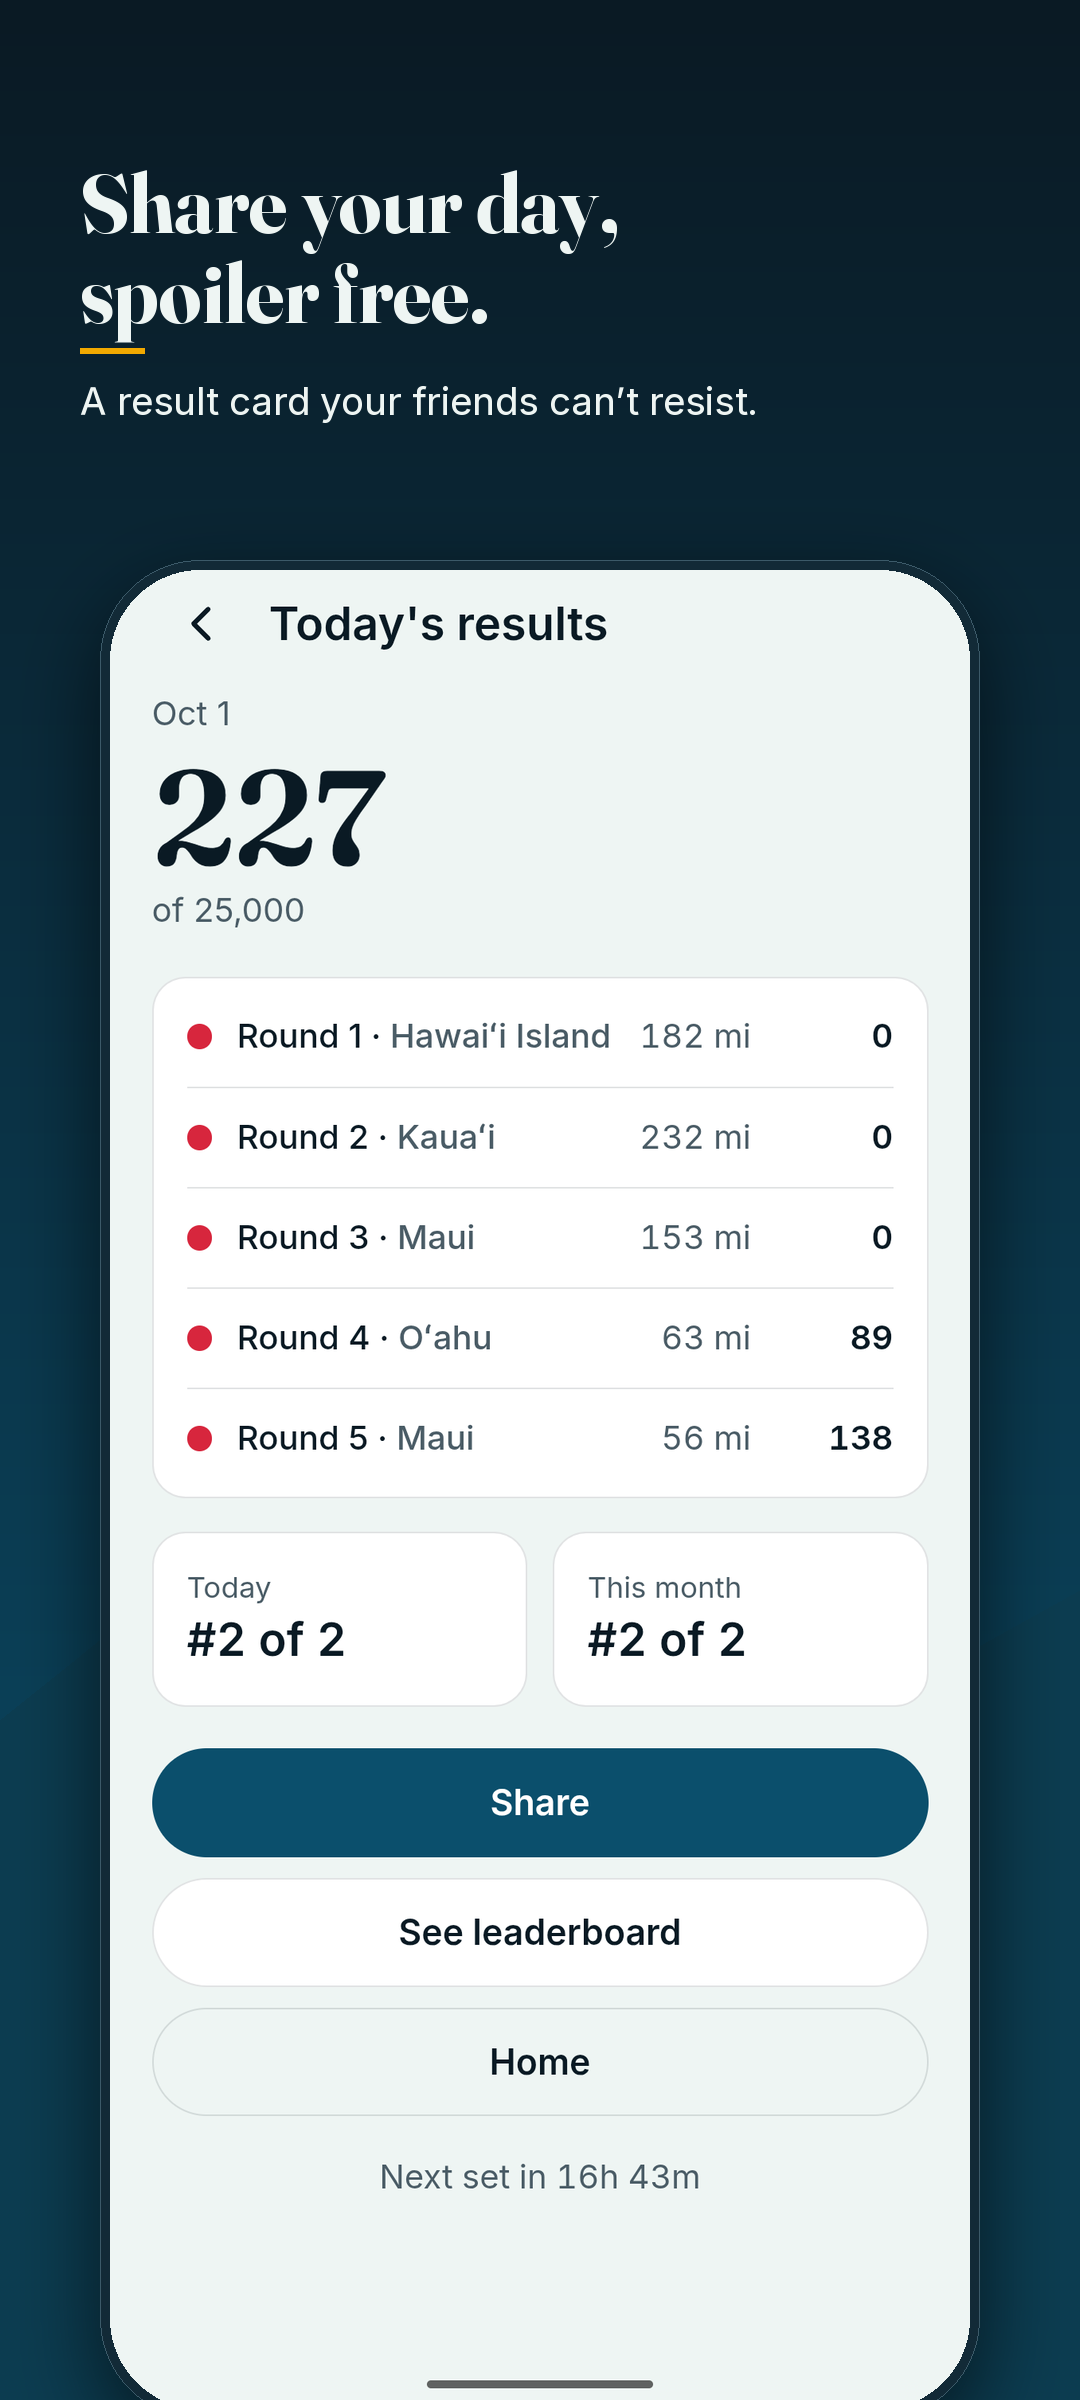
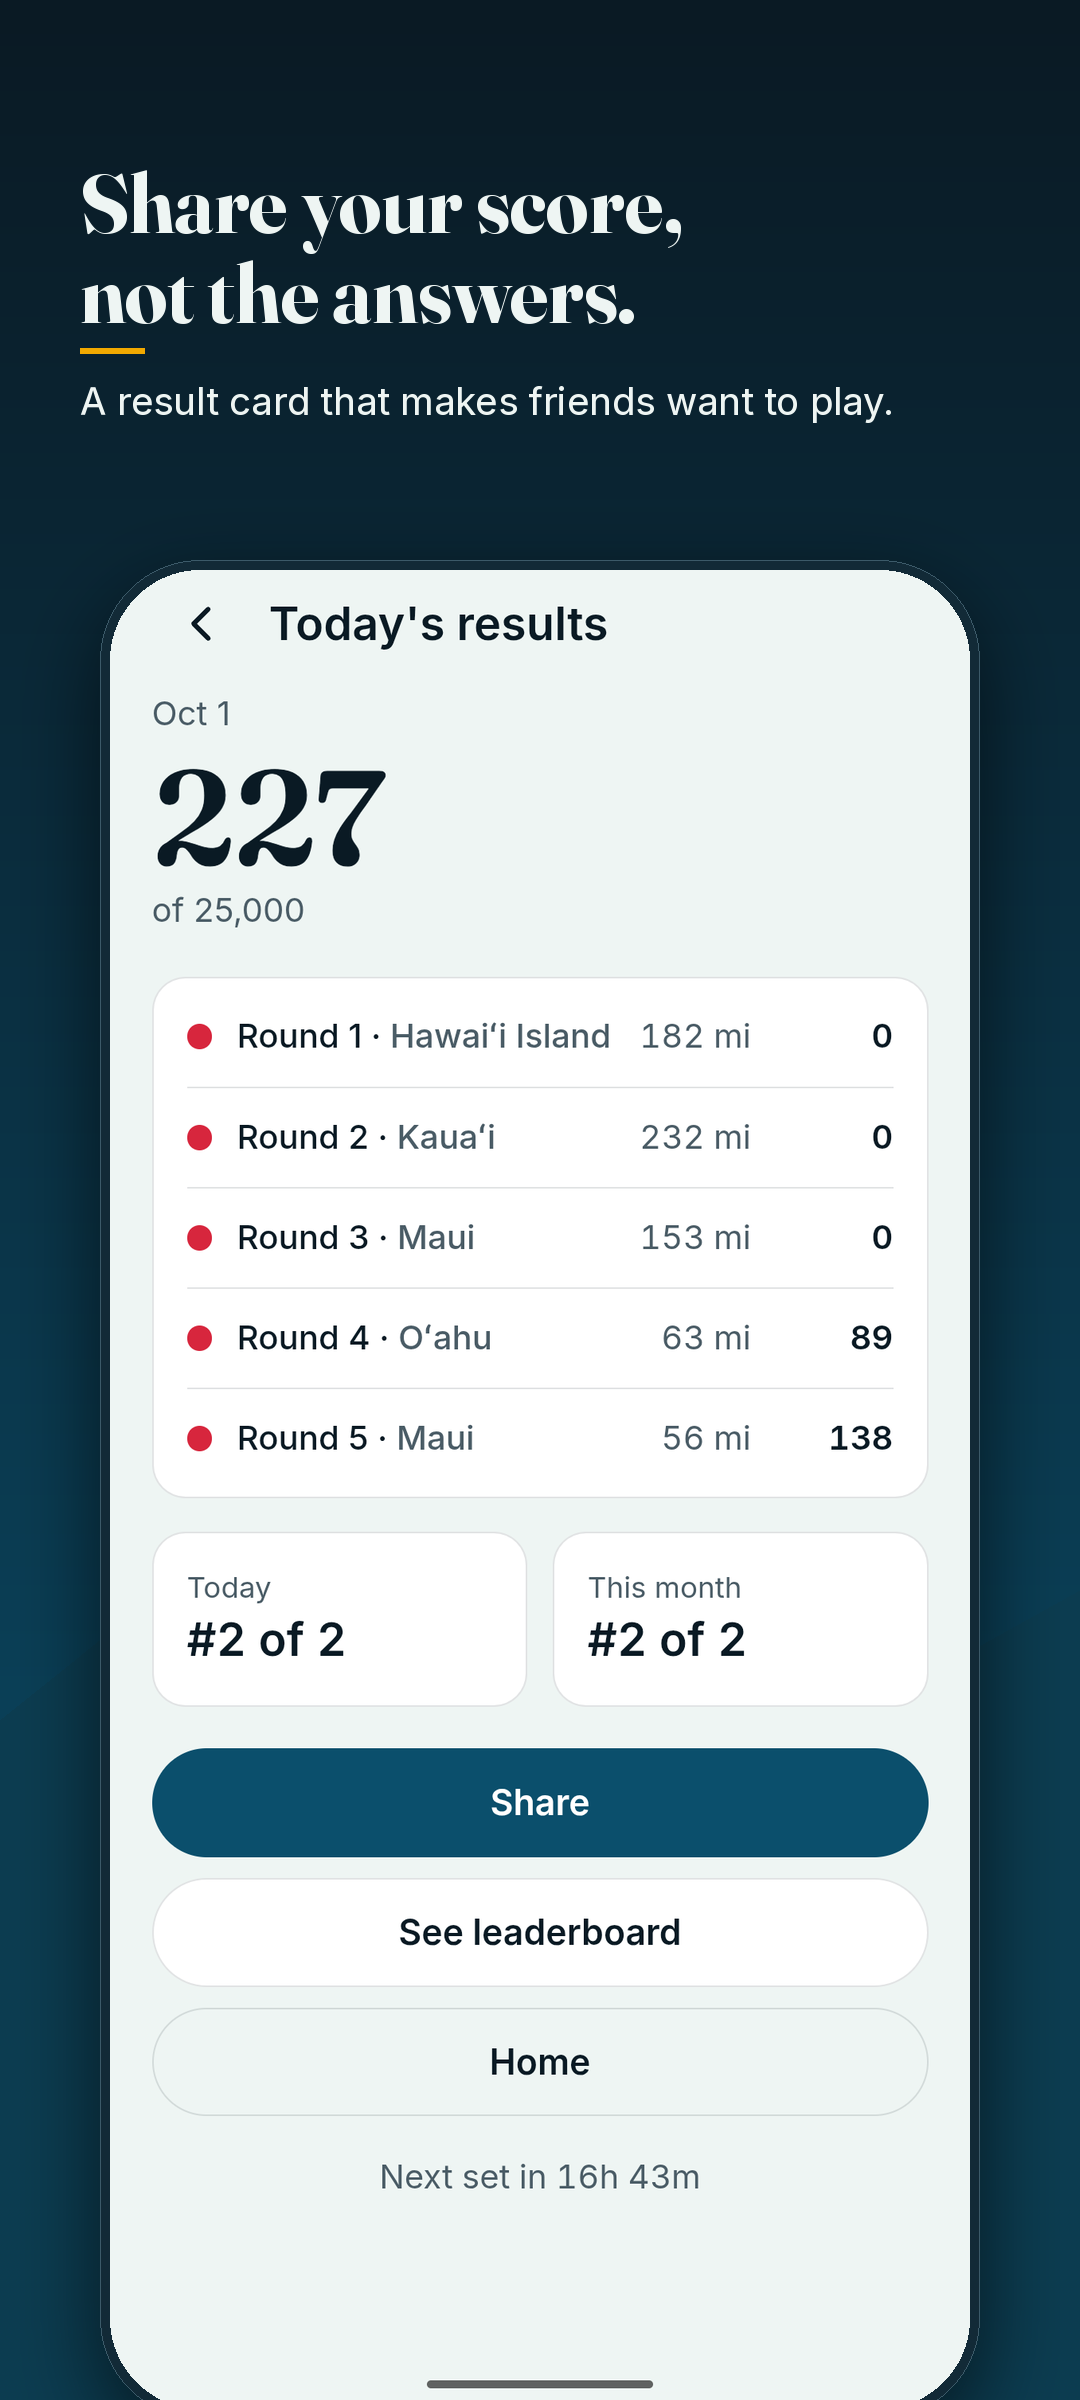
Copy: free and open source, zero tracking; share your score, not the answers

Changed region(s): [[0.3056, 0.0625, 0.825, 0.1875], [0.0917, 0.0938, 0.275, 0.1562]]

diff --git a/docs/index.html b/docs/index.html
@@ -17,7 +17,7 @@ small{color:#9db3bd}
 <p class="lead">Five places in Hawaiʻi a day. Same five for everyone. Look around, drop your pin, see how close you were. New at midnight Hawaiʻi time.</p>
 <p><a class="btn" href="https://github.com/olagon/kilo/releases">Get the Android app</a> <a class="btn alt" href="https://github.com/olagon/kilo">Source code</a></p>
 <ul>
-<li>No account, no ads, no tracking, no location permission.</li>
+<li>Free and open source. Zero tracking, no account, no location permission.</li>
 <li>Up to 5,000 points a round. The right island matters most.</li>
 <li>Daily and monthly leaderboards. Practice mode with 300 extra spots.</li>
 </ul>

diff --git a/apps/mobile/src/share/index.ts b/apps/mobile/src/share/index.ts
@@ -24,7 +24,7 @@ export async function shareDay(rec: DayRecord, playerName: string, units: 'mi' |
     fileUri = null;
   }
   try {
-    await Share.share({ title: `Kilo #${input.dayNumber}`, text, dialogTitle: 'Share your day', ...(fileUri ? { files: [fileUri] } : {}) });
+    await Share.share({ title: `Kilo #${input.dayNumber}`, text, dialogTitle: 'Share your score', ...(fileUri ? { files: [fileUri] } : {}) });
     return 'shared';
   } catch {
     try {

diff --git a/docs/privacy.html b/docs/privacy.html
@@ -13,7 +13,7 @@
 <h2>What we don't do</h2>
 <ul>
 <li>No email, no phone number, no password, no account.</li>
-<li>No ads, no analytics SDKs, no tracking, no selling or sharing of data.</li>
+<li>No analytics SDKs, no tracking, no selling or sharing of data.</li>
 <li>The app never asks for your location. The game doesn't need it.</li>
 </ul>
 <h2>Where it goes</h2>

diff --git a/tools/store-art/make.py b/tools/store-art/make.py
@@ -81,8 +81,8 @@ SLIDES = [
     ('round4-sky', 'Look around.\nYou can’t move.', 'Turn and tilt over real terrain. The clues are in front of you.', -3),
     ('round1-fullmap', 'Drop your pin.', 'Tap the islands. Drag to fine tune. Lock it in.', 0),
     ('practice4-reveal', 'How close were you?', 'Up to 5,000 points a round. The right island matters most.', 3),
-    ('summary', 'Share your day,\nspoiler free.', 'A result card your friends can’t resist.', 0),
-    ('leaderboard', 'Today and this month.', 'No account. Just a name.', -3),
+    ('summary', 'Share your score,\nnot the answers.', 'A result card that makes friends want to play.', 0),
+    ('leaderboard', 'Today and this month.', 'Free and open source. Zero tracking. No account, just a name.', -3),
     ('stats-real', 'The islands\nyou know best.', 'Streaks, best days, perfect rounds, and your average distance per island.', 0),
     ('practice-setup', 'Practice anytime.', 'Hundreds of extra spots. Filter by island or difficulty.', 3),
 ]

diff --git a/README.md b/README.md
@@ -2,7 +2,7 @@
 
 **A daily Hawaiʻi geography game.** Every day at midnight Hawaiʻi time, everyone gets the same five places somewhere in the islands. You are dropped into a tilted satellite view over real terrain. You can turn and look around, but you can't move. Drop a pin on the map of the islands, lock it in, and score up to 5,000 points a round for being close. Share a spoiler free result and see how you rank today and this month.
 
-No accounts, no ads, no tracking, no location permission. You just pick a name.
+Free and open source, with zero tracking: no analytics, no advertising ID, no location permission. You just pick a name.
 
 Made by [Olin Lagon](https://github.com/olagon). Code is MIT. Imagery and map data have their own licenses, listed below.
 
